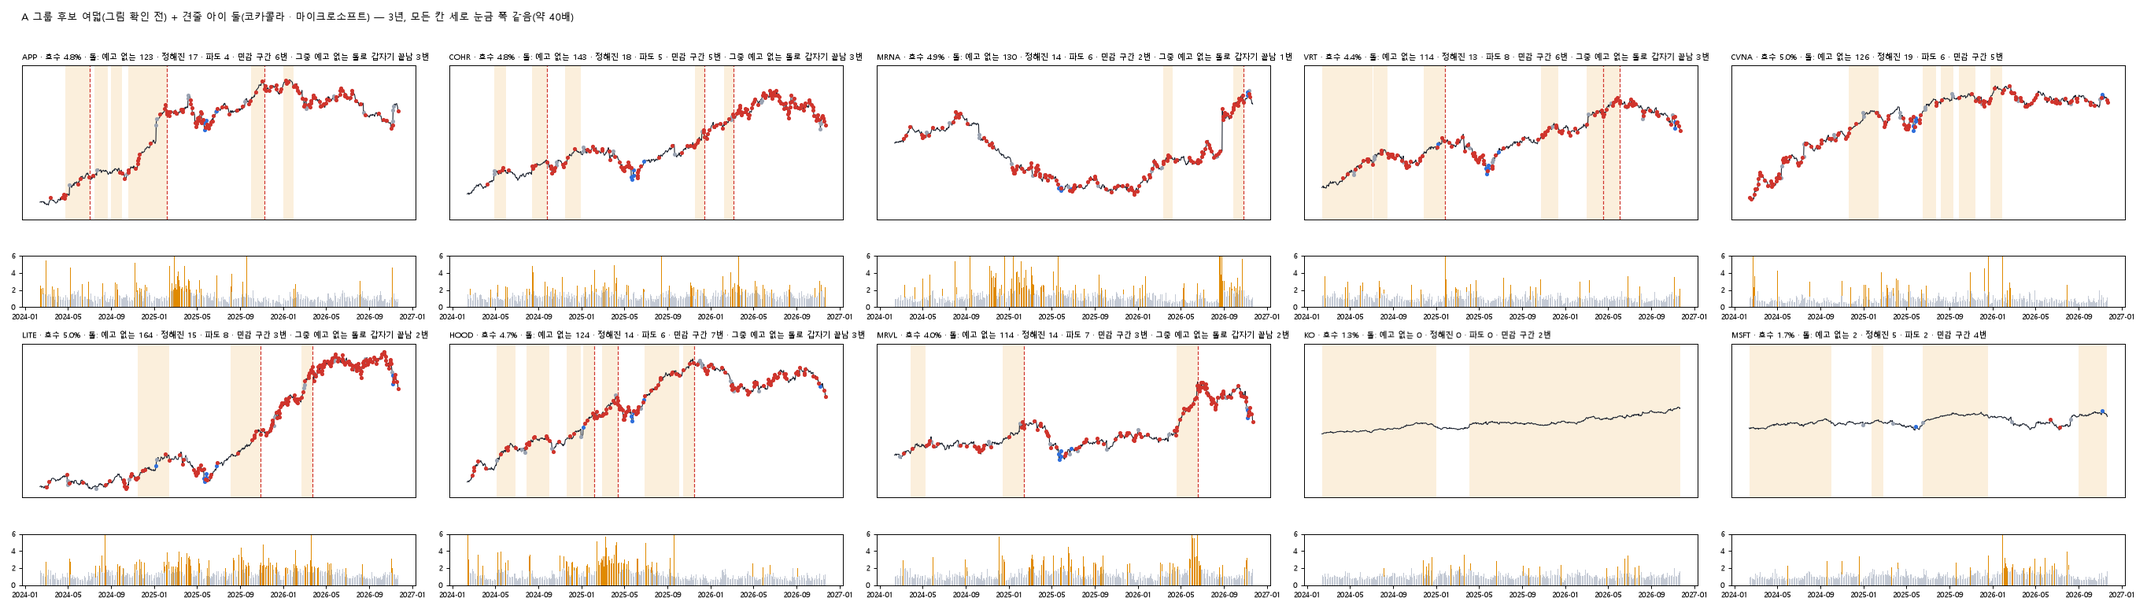
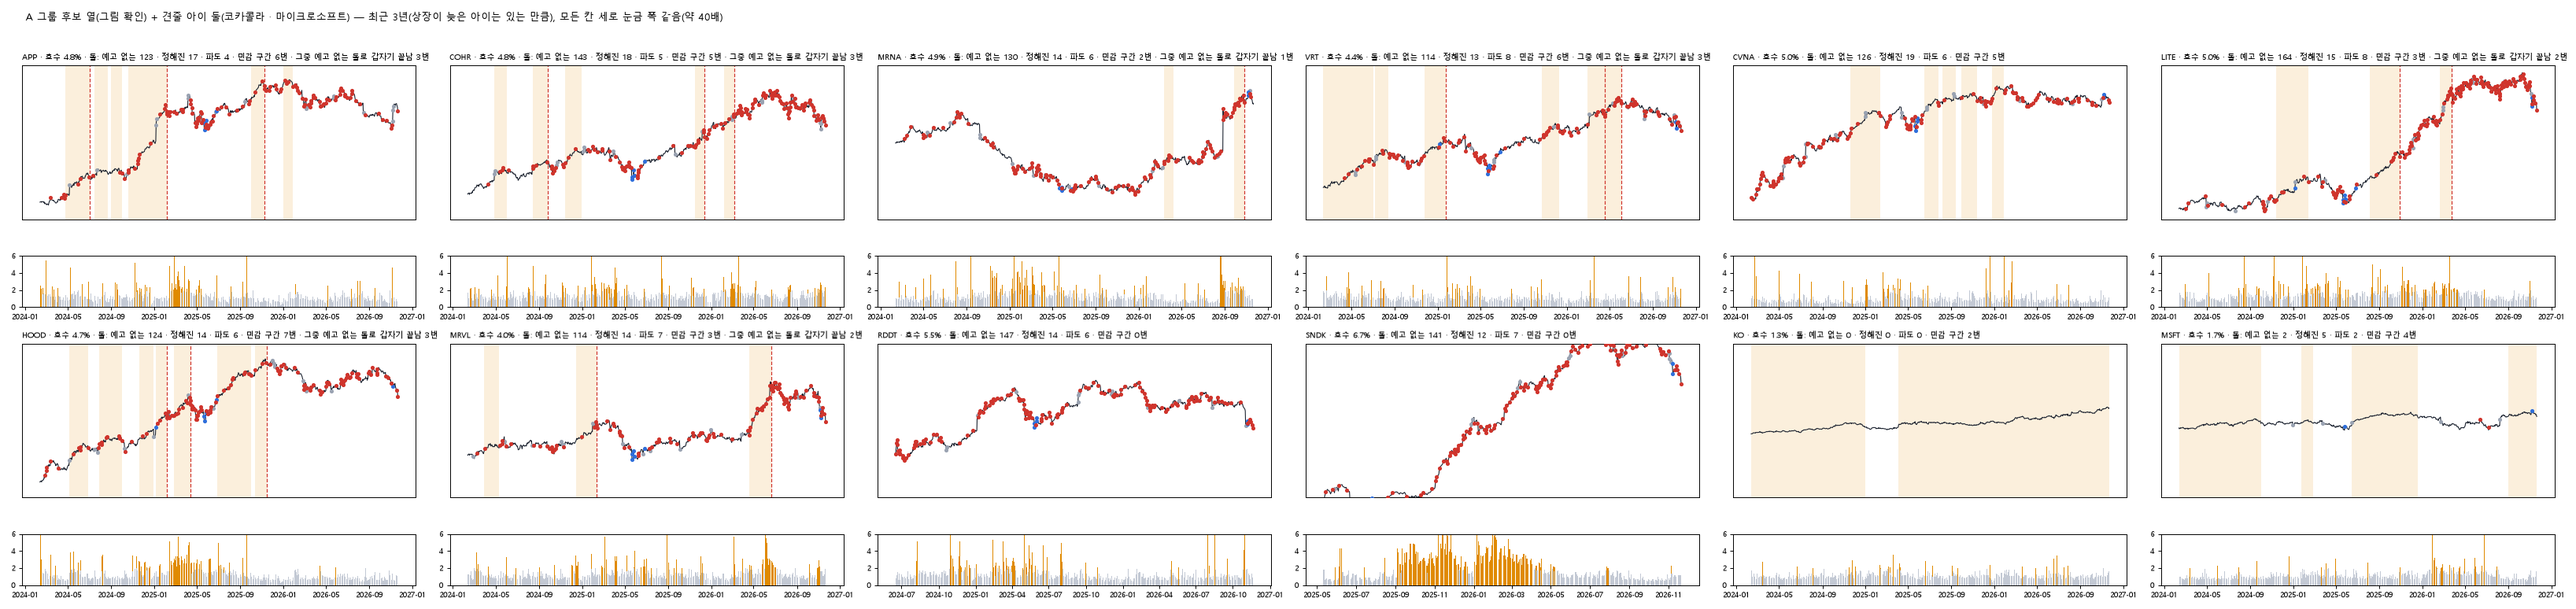
개성 게임 — 평범이 아이의 80%가 되게 판정 고침(평범 밖 조각 비율 위쪽 20% = 개성, A · B · C 삼등분) · 상장 3년 미만도 포함 · 첫 묶음 열 명 그림 (2026-11-24 사용자 "왜 152명 평범이지?" · "3년 안 되면 빼지 마")

diff --git a/experiments/stock-character/look_band_page.html b/experiments/stock-character/look_band_page.html
@@ -34,10 +34,7 @@ table{border-collapse:collapse;width:100%;font-size:13px}th,td{border-bottom:1px
 <div style="margin-top:8px">보는 조각 <b id="pv"></b> <span id="pd" style="color:var(--mute);font-size:13px"></span></div>
 <input id="piece" type="range" min="0" max="0" step="1" value="0"><div class="ticks"><span>옛날</span><span>최근</span></div>
 <div class="row" style="margin-top:10px">볼 칸 <span id="pick"></span></div>
-<div class="row">그룹 선 — 평범 밖이던 조각의 비율이
- A <input class="num" id="ga" type="number" min="1" max="100" value="75">% 넘게 ·
- B <input class="num" id="gb" type="number" min="1" max="100" value="50">% 넘게 ·
- C <input class="num" id="gc" type="number" min="1" max="100" value="25">% 넘게</div>
+<div class="row" style="color:var(--mute);font-size:13px">개성 = 평범 밖이던 조각의 비율이 높은 순으로 아이의 위쪽 <b id="pv2" style="font-size:14px;color:var(--ink)">20</b>% · 평범 = 나머지. 개성 안에서 센 순서대로 A · B · C 삼등분.</div>
 <div class="sum" id="sum"></div></div>
 <div class="card" id="answer"></div>
 <div id="cards"></div>
@@ -63,9 +60,8 @@ function calc(b){const t=(100-b)/200,np=LB.length,lim=[];
   return lim}
 $('pick').innerHTML=COLS.map(([c,l],i)=>`<label><input type="checkbox" data-i="${i}" checked> ${l.split(' (')[0]}</label>`).join('');
 $('pick').addEventListener('change',()=>draw());
-['ga','gb','gc'].forEach(id=>$(id).addEventListener('input',()=>draw()));
 const picked=()=>[...$('pick').querySelectorAll('input')].filter(x=>x.checked).map(x=>+x.dataset.i);
-function answer(){const use=picked(),np=LB.length,ga=+$('ga').value,gb=+$('gb').value,gc=+$('gc').value;
+function answer(){const use=picked(),np=LB.length,band=+$('band').value;$('pv2').textContent=100-band;
   const out={A:[],B:[],C:[],D:[],plain:0,none:0};
   D.forEach(x=>{let n=0,k=0,up=0,dn=0;const mix=new Array(np).fill(null),per=use.map(()=>[0,0]);
     for(let p=0;p<np;p++){if(!x.v[p])continue;n++;let u=false,l=false;
@@ -73,16 +69,20 @@ function answer(){const use=picked(),np=LB.length,ga=+$('ga').value,gb=+$('gb').
       mix[p]=u&&l?2:u?1:l?-1:0;if(u||l)k++;if(u)up++;if(l)dn++}
     x.mix=mix;x.n=n;x.k=k;x.share=n?k/n*100:0;x.per=per;
     x.side=up&&dn&&Math.min(up,dn)>=0.3*Math.max(up,dn)?'섞임':up>=dn?'위쪽(거친 쪽)':'아래쪽(잔잔한 쪽)';
-    x.auto=n<3?null:x.share>ga?'A':x.share>gb?'B':x.share>gc?'C':'';
-    if(x.g==='D')out.D.push(x);else if(x.auto==null)out.none++;else if(x.auto==='')out.plain++;else out[x.auto].push(x)});
+    x.auto=n?'':null});
+  // 평범 = 아이의 80%(고른 범위) — 평범 밖 조각 비율로 줄 세워 위쪽 (100 − 범위)% 만 개성. 볼 칸을 몇 개 고르든 평범의 몫은 그대로.
+  const have=D.filter(x=>x.auto==='').sort((a,b)=>b.share-a.share),nTop=Math.round(have.length*(100-band)/100);
+  let top=have.slice(0,nTop).filter(x=>x.share>0);const cut=top.length?top[top.length-1].share:0;
+  top.forEach((x,i)=>{x.auto=i<top.length/3?'A':i<top.length*2/3?'B':'C'});out.cut=cut;
+  D.forEach(x=>{if(x.g==='D')out.D.push(x);else if(x.auto==null)out.none++;else if(x.auto==='')out.plain++;else out[x.auto].push(x)});
   for(const g of 'ABCD')out[g].sort((a,b)=>b.share-a.share);
   const mstrip=a=>'<span class="strip">'+a.map((v,i)=>`<u class="${v==null?'n':v===2?'m':v<0?'l':v>0?'h':''}${i===P?' c':''}"></u>`).join('')+'</span>';
   const one=x=>`<div class="nm">${x.seen?'<span class="ok" title="그림으로 확인">✓</span>':''}<span>${x.k2||x.s}</span>${mstrip(x.mix)}<i>${x.n}조각 중 ${x.k}조각 (${x.share.toFixed(0)}%) · ${x.side}</i>`+
-    `<i>${use.map((ci,j)=>x.per[j][0]+x.per[j][1]?`<span class="pill">${COLS[ci][1].split(' (')[0]} ${x.per[j][0]?'↑'+x.per[j][0]:''}${x.per[j][1]?'↓'+x.per[j][1]:''}</span>`:'').join(' ')}</i>${x.g==='D'&&x.auto?`<i>설정으로는 ${x.auto}</i>`:''}</div>`;
+    `<i>${use.map((ci,j)=>x.per[j][0]+x.per[j][1]?`<span class="pill">${COLS[ci][1].split(' (')[0]} ${x.per[j][0]?'↑'+x.per[j][0]:''}${x.per[j][1]?'↓'+x.per[j][1]:''}</span>`:'').join(' ')}</i>${x.g==='D'?`<i>설정으로는 ${x.auto||'평범'}</i>`:''}</div>`;
   const sec=(g,title)=>`<div class="grp"><h3><span class="tag">${g}</span> ${title} — ${out[g].length}명</h3>${fold(out[g],one,'없음')}</div>`;
-  $('answer').innerHTML=`<h2>설정으로 나온 답</h2><div class="rng">최근 ${Y}년 · ${W}일 간격 ${np}조각 · 평범 = 가운데 ${$('band').value}% · 볼 칸 ${use.length}개. 조각 하나에서 볼 칸 중 하나라도 평범 밖이면 그 조각은 "평범 밖". 그 조각의 비율로 그룹을 나눕니다. ✓ = 그림으로 확인한 아이.</div>`+
-    sec('A',`평범 밖이던 조각이 ${ga}% 넘게`)+sec('B',`${gb}% 넘게`)+sec('C',`${gc}% 넘게`)+sec('D','단체 그룹 — 같은 때 같이 움직인 무리(사람이 넣음)')+
-    `<div class="grp"><h3>평범 — ${out.plain}명</h3><div class="note">평범한 아이는 배경이라 이름을 싣지 않습니다.${out.none?` 조각이 3개 미만이라 가를 수 없는 아이 ${out.none}명.`:''}</div></div>`+
+  $('answer').innerHTML=`<h2>설정으로 나온 답</h2><div class="rng">최근 ${Y}년 · ${W}일 간격 ${np}조각 · 평범 = 가운데 ${$('band').value}% · 볼 칸 ${use.length}개. 조각 하나에서 볼 칸 중 하나라도 평범 밖이면 그 조각은 "평범 밖". 그 비율이 높은 순으로 아이의 위쪽 ${100-band}% 가 개성(이번 선 = ${out.cut.toFixed(0)}% 넘게), 나머지가 평범. ✓ = 그림으로 확인한 아이.</div>`+
+    sec('A','개성이 가장 센 3분의 1')+sec('B','그다음 3분의 1')+sec('C','나머지 3분의 1')+sec('D','단체 그룹 — 같은 때 같이 움직인 무리(사람이 넣음)')+
+    `<div class="grp"><h3>평범 — ${out.plain}명</h3><div class="note">평범한 아이는 배경이라 이름을 싣지 않습니다.${out.none?` 이 범위에 조각이 하나도 없는 아이 ${out.none}명.`:''}</div></div>`+
     `<div class="note">띠: <span style="color:var(--hi)">■</span> 위쪽 바깥 · <span style="color:var(--lo)">■</span> 아래쪽 바깥 · <span style="color:#8a5fd0">■</span> 한 조각에서 위 · 아래 둘 다(칸이 다름). 굵은 테두리 = 지금 보는 조각.</div>`}
 const strip=(a,cur)=>'<span class="strip">'+a.map((v,i)=>`<u class="${v==null?'n':v<0?'l':v>0?'h':''}${i===cur?' c':''}"></u>`).join('')+'</span>';
 const fold=(list,one,empty)=>{const head=list.slice(0,5).map(one).join(''),rest=list.slice(5);

diff --git a/experiments/stock-character/output/mock_check.html b/experiments/stock-character/output/mock_check.html
@@ -6,10 +6,10 @@ main{max-width:1500px;margin:0 auto;padding:20px 16px 60px}h1{font-size:20px;mar
 img{width:100%;height:auto;display:block;border:1px solid #e3e6ec;border-radius:6px}.scroll{overflow-x:auto}.scroll img{min-width:1400px}
 table{border-collapse:collapse;font-size:14px}td,th{border-bottom:1px solid #e3e6ec;padding:5px 10px;text-align:left}.note{color:#6b7485;font-size:13px;margin-top:6px}
 </style></head><body><main>
-<h1>그림 확인 — A 그룹 후보 (첫 묶음 여덟 명)</h1>
-<div class="sub">뉴팩트 개성 있는 아이 찾기 게임 · 설정 = 최근 3년 · 20일 간격 · 평범 가운데 80% · 칸 넷 · 그룹 선 75 / 50 / 25%. 이 설정에서 A 로 나온 42명 중, 그림 확인 전이던 아이를 위에서부터 여덟 명. 2026-11-24.</div>
+<h1>그림 확인 — A 그룹 후보 (첫 묶음 열 명)</h1>
+<div class="sub">뉴팩트 개성 있는 아이 찾기 게임 · 설정 = 최근 3년 · 20일 간격 · 평범 80%(아이의 80% 가 평범, 개성 20% 를 센 순서대로 A · B · C 삼등분) · 칸 넷. 이 설정에서 A 로 나온 32명 중, 그림 확인 전이던 아이를 위에서부터 열 명. 상장 3년이 안 된 아이(레딧 · 샌디스크)도 빼지 않고 있는 만큼 봅니다. 2026-11-24.</div>
 <div class="card"><h2>그림</h2>
-<div class="scroll"><img src="graphs/check_A1.png" alt="A 그룹 후보 여덟 명의 3년 그래프"></div>
+<div class="scroll"><img src="graphs/check_A1.png" alt="A 그룹 후보 열 명의 3년 그래프"></div>
 <div class="note">모든 칸의 세로 눈금 폭이 같습니다(위아래 약 40배). 빨강 점 = 예고 없는 돌(실적 · 파도 날이 아닌 ±5%) · 회색 = 정해진 돌(실적) · 파랑 = 파도 날의 돌 · 노란 띠 = 1년 고점 근처에 머문 구간 · 아래 = 거래량(평소의 몇 배). 오른쪽 아래 둘(코카콜라 · 마이크로소프트)은 견주려고 놓은 아이입니다.</div></div>
 <div class="card"><h2>Claude 가 그림에서 본 것</h2>
 <table>
@@ -22,6 +22,8 @@ table{border-collapse:collapse;font-size:14px}td,th{border-bottom:1px solid #e3e
 <tr><td>루멘텀 LITE</td><td>앞 1년은 듬성듬성, 뒤 2년은 빽빽. 코히런트와 그림 모양이 닮음(같은 광통신)</td></tr>
 <tr><td>로빈후드 HOOD</td><td>3년 내내 돌이 빽빽. 2025 초에 거래량이 길게 몰림</td></tr>
 <tr><td>마벨 MRVL</td><td>3년 내내 돌이 있음. 2026 여름에 몰림</td></tr>
+<tr><td>레딧 RDDT</td><td>2024-03 상장 뒤 내내 돌이 빽빽</td></tr>
+<tr><td>샌디스크 SNDK</td><td>2025-02 상장 뒤 내내 돌이 빽빽. 크게 올라 그림 위쪽이 잘림. 2025 가을 ~ 2026 봄에 거래량이 길게 몰림</td></tr>
 </table>
-<div class="note">여덟 명 모두 코카콜라 · 마이크로소프트(가늘고 매끈한 선)와 한눈에 다릅니다. 루멘텀과 코히런트는 서로 닮아 단체(D)일 수 있는데 정하지 않았습니다. 레딧 · 샌디스크는 상장 3년이 안 되어 이번 묶음에서 뺐습니다.</div></div>
+<div class="note">열 명 모두 코카콜라 · 마이크로소프트(가늘고 매끈한 선)와 한눈에 다릅니다. 루멘텀과 코히런트는 서로 닮아 단체(D)일 수 있는데 정하지 않았습니다.</div></div>
 </main></body></html>

diff --git a/experiments/stock-character/look_band.py b/experiments/stock-character/look_band.py
@@ -32,6 +32,7 @@ ROSTER = {"COIN": "A", "BE": "A", "SMCI": "A", "BRK-B": "A", "KO": "A", "RSG": "
           "TSLA": "B", "MSI": "C", "MSFT": "미정", "SCHW": "미정",
           # 2026-11-24 그림 확인 첫 묶음(check_A1.png · 목업 mock_check.html) — 기준 설정(3년 · 20일 간격 · 80% · 칸 넷 · 75/50/25)에서 A 로 나온 아이 중 여덟
           "APP": "A", "COHR": "A", "MRNA": "A", "VRT": "A", "CVNA": "A", "LITE": "A", "HOOD": "A", "MRVL": "A",
+          "RDDT": "A", "SNDK": "A",   # 상장 3년이 안 됐지만 빼지 않는다(사용자 11-24 "3년 안 되면 빼지 마") — 있는 조각만큼 봄
           # D = 단체 그룹 — 같은 때 같이 움직인 무리(2026-11-24 사용자 "그룹으로 일단 해놔 D 단체 그룹"). 메모리 · 저장장치 · 반도체 장비 · 전자부품 아홉(길잡이 7-19). 코닝은 B 에서 여기로.
           "MU": "D", "WDC": "D", "STX": "D", "LRCX": "D", "AMAT": "D", "KLAC": "D", "TER": "D", "GLW": "D", "FLEX": "D"}
 

diff --git a/experiments/stock-character/look_stones.py b/experiments/stock-character/look_stones.py
@@ -67,14 +67,14 @@ def react_days(idx, ret, edays, start):
 
 def profile(s, d, edays, waves):
     d = d[(d["open"] > 0) & (d["volume"] > 0)]
-    if len(d) < DAYS + 260:
+    if len(d) < 120:      # 상장 3년이 안 된 아이도 뺀다 X — 있는 만큼 본다 (2026-11-24 사용자 "3년 안 되면 빼지 마")
         return None
     c, idx = d["close"], d.index
     ret = (c.pct_change() * 100).values
     volx = (d["volume"] / d["volume"].rolling(250, min_periods=60).median()).values
     rng = ((d["high"] - d["low"]) / c * 100).values
     sched = sched_days(idx, edays)
-    n0 = len(idx) - DAYS
+    n0 = max(len(idx) - DAYS, 1)
     st = [i for i in range(n0, len(idx)) if abs(ret[i]) >= STONE]
     wv = [i for i in st if idx[i] in waves and i not in sched]
     un = [i for i in st if i not in sched and idx[i] not in waves]

diff --git a/CLAUDE.md b/CLAUDE.md
@@ -48,8 +48,8 @@
 - **뉴팩트 개성 있는 아이 찾기 게임**(= 종목 그래프 패턴 분류, 호수 · 돌 · 파도, 종목 특성): 사용자가 이 이름들 중 하나를 말하면, 손대기 전에 두 저장소를 `git pull` 하고 `../alphascope-docs/doc/기획/종목-그래프-패턴-분류-목적.md` 를 처음부터 끝까지 읽는다(맨 위 0절 = 지금 자리 · 다음 할 일 · 집 PC 시작법 · 점검표). 메모리는 PC 마다 따로라 그 문서가 유일한 이어 가기 자리 — 한 걸음마다 적고 커밋 · 푸시. (2026-11-23 "오늘처럼 실수하지 말고", 11-24 "집에서도 꼭 이어갈 수 있게")
   **사용자가 정한 바닥 규칙 — 무엇을 만들든 만들기 전에 이 줄들과 맞춰 보고, 만들 것을 한 줄로 먼저 말한다** (2026-11-24 "왜 자꾸 기억을 못 하고 오류가 계속되는 거지?"):
   1. 게임 = 개성 있는 아이 찾기. **평범은 배경**으로만 — 이름 · 숫자를 보고에 올리지 않는다. 전교생 평균 · 표결로 판정하지 않는다.
-  2. **평범 = 중간값을 가운데 둔 가운데 80%**(사용자가 70 ~ 90% 로 조절). 그 바깥이 개성 후보.
-  3. **기간 = 20 · 60 · 120 · 200일 간격으로 과거를 잘라 조각마다 본다.** "최근 N일 한 구간"도, "3년 통째"도 아니다. 평범의 선은 조각마다 다시 긋는다. 과거 범위는 최근 1 · 2 · 3년 중 고르고 3년보다 늘리지 않는다.
+  2. **평범 = 중간값을 가운데 둔 가운데 80%**(사용자가 70 ~ 90% 로 조절). 그 바깥이 개성 후보. **아이로 세어도 평범이 80% · 개성이 20% 여야 한다** — 칸 · 조각을 겹쳐 판정해 평범이 줄어들게 만들지 않는다(11-24: 칸 넷 "하나라도 바깥"으로 평범이 152명이 됐던 실수).
+  3. **기간 = 20 · 60 · 120 · 200일 간격으로 과거를 잘라 조각마다 본다.** "최근 N일 한 구간"도, "3년 통째"도 아니다. 평범의 선은 조각마다 다시 긋는다. 과거 범위는 최근 1 · 2 · 3년 중 고르고 3년보다 늘리지 않는다. 기간이 길수록 개성이 덜 드러날 수 있다 — **상장 3년이 안 된 아이도 빼지 않고 있는 조각만큼 본다.**
   4. **개성 = 반복** — 여러 조각에서 되풀이해 평범 밖. 한 번은 우연. 시기마다 드러났다 사라진다(딱지를 한 번 붙이고 끝내지 않는다). 잔잔한 것도 개성.
   5. 이름은 **그룹 A · B · C**(개성의 세기) + **D 단체 그룹**(같은 때 같이 움직인 무리) + 평범. 그림으로 확인한 아이만 확정된 그룹으로 말한다. 프로그램(목업 `mock_band.html` 의 "설정으로 나온 답")이 낸 그룹은 설정에 따라 바뀌는 답 — 확인 전인 아이를 확정처럼 보고하지 않는다.
   6. 가격과 **거래량**을 같이 본다. 실적은 정해진 돌, 시장 전체가 흔들린 날은 파도 — 따로 가른다.
